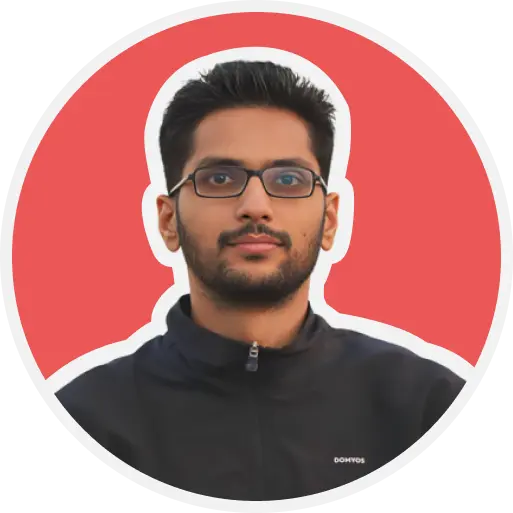
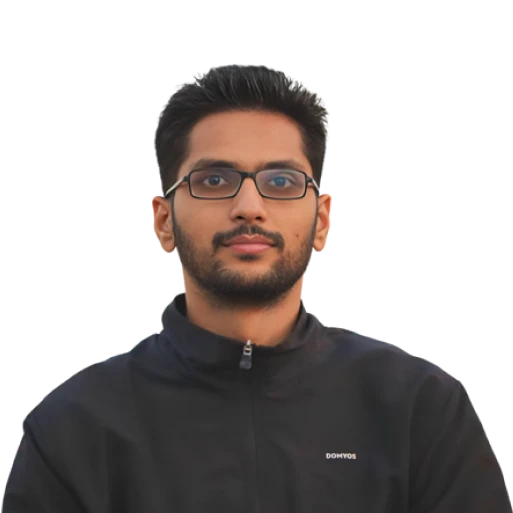
improve summary changes

diff --git a/src/components/Screens/Summary/Summary.scss b/src/components/Screens/Summary/Summary.scss
@@ -1,15 +1,15 @@
-@keyframes borders {
-  0% {
-    width: calc(var(--image-width) + 1rem);
-    height: calc(var(--image-width) + 1rem);
-    border: 2px solid var(--primary-color);
-  }
-  100% {
-    width: calc(var(--image-width) + 4rem);
-    height: calc(var(--image-width) + 4rem);
-    border: 2px solid transparent;
-  }
-}
+// @keyframes borders {
+//   0% {
+//     width: calc(var(--image-width) + 1rem);
+//     height: calc(var(--image-width) + 1rem);
+//     border: 2px solid var(--primary-color);
+//   }
+//   100% {
+//     width: calc(var(--image-width) + 4rem);
+//     height: calc(var(--image-width) + 4rem);
+//     border: 2px solid transparent;
+//   }
+// }
 
 .summary-mobile {
   align-items: center;
@@ -29,40 +29,57 @@
   .mainlogo-wrapper {
     position: relative;
     box-sizing: content-box;
-    border-radius: 50%;
-    background: var(--grey8);
 
-    width: var(--image-width);
-    height: var(--image-width);
+    display: flex;
+    align-items: flex-end;
+    justify-content: center;
+
+    padding: 2rem 2rem 0 2rem;
+
+    border-bottom: 4px solid var(--grey8);
+    overflow: hidden;
 
     &:after {
       content: "";
       position: absolute;
-      top: 50%;
+      top: 90%;
       left: 50%;
+
+      width: 75%;
+      height: calc(75% + 1rem);
+
       transform: translateX(-50%) translateY(-50%);
 
       border-radius: 50%;
-      animation: borders 6s infinite linear;
+
+      z-index: -1;
+
+      background: var(--grey7);
     }
 
     &:before {
       content: "";
       position: absolute;
-
-      border-radius: 50%;
-      top: 50%;
+      top: 90%;
       left: 50%;
 
+      width: calc(80% + 1rem);
+      height: calc(80% + 2rem);
+
       transform: translateX(-50%) translateY(-50%);
-      animation: borders 6s infinite 3s linear;
+
+      border-radius: 50%;
+      background: var(--grey8);
+
+      z-index: -1;
     }
 
     .mainlogo {
       opacity: 0;
       width: 100%;
-      border-radius: 50%;
-      transition: opacity 0.3s ease-in-out;
+
+      width: var(--image-width);
+      height: var(--image-width);
 
       &.loaded {
         opacity: 1;
@@ -103,8 +120,8 @@
   .summary-text {
     font-size: 1.25rem;
     padding-top: 1.5rem;
-    margin: 0 2rem;
-    text-align: center;
+    margin: 0;
+    text-align: left;
 
     span {
       font-weight: bold;

diff --git a/src/components/Screens/Summary/Summary.tsx b/src/components/Screens/Summary/Summary.tsx
@@ -51,25 +51,28 @@ const Summary = () => {
 
   return (
     <div className="summary-mobile">
-      <div className="mainlogo-wrapper">
-        <img
-          src={portfolioImage}
-          className={`mainlogo ${imageLoading && "loaded"}`}
-          alt="mi Baburao"
-          loading="eager"
-          onLoad={handleImageLoaded}
-          onError={handleImageErrored}
-        />
+      <div className="left-section">
+        <div className="bold primary-color hello">{t("hello")}</div>
+        <div className="h1 bold main-title grey-1 text-cursor">
+          {overview.name}
+        </div>
+        <div className="body-text summary-text">{parse(purifiedHTML)}</div>
+        <div className="summary-buttons">
+          <DownloadCV />
+          <ContactMeButton />
+        </div>
       </div>
-
-      <div className="bold primary-color hello">{t("hello")}</div>
-      <div className="h1 bold main-title grey-1 text-cursor">
-        {overview.name}
-      </div>
-      <div className="body-text summary-text">{parse(purifiedHTML)}</div>
-      <div className="summary-buttons">
-        <DownloadCV />
-        <ContactMeButton />
+      <div className="right-section">
+        <div className="mainlogo-wrapper">
+          <img
+            src={portfolioImage}
+            className={`mainlogo ${imageLoading && "loaded"}`}
+            alt="mi Baburao"
+            loading="eager"
+            onLoad={handleImageLoaded}
+            onError={handleImageErrored}
+          />
+        </div>
       </div>
     </div>
   );
